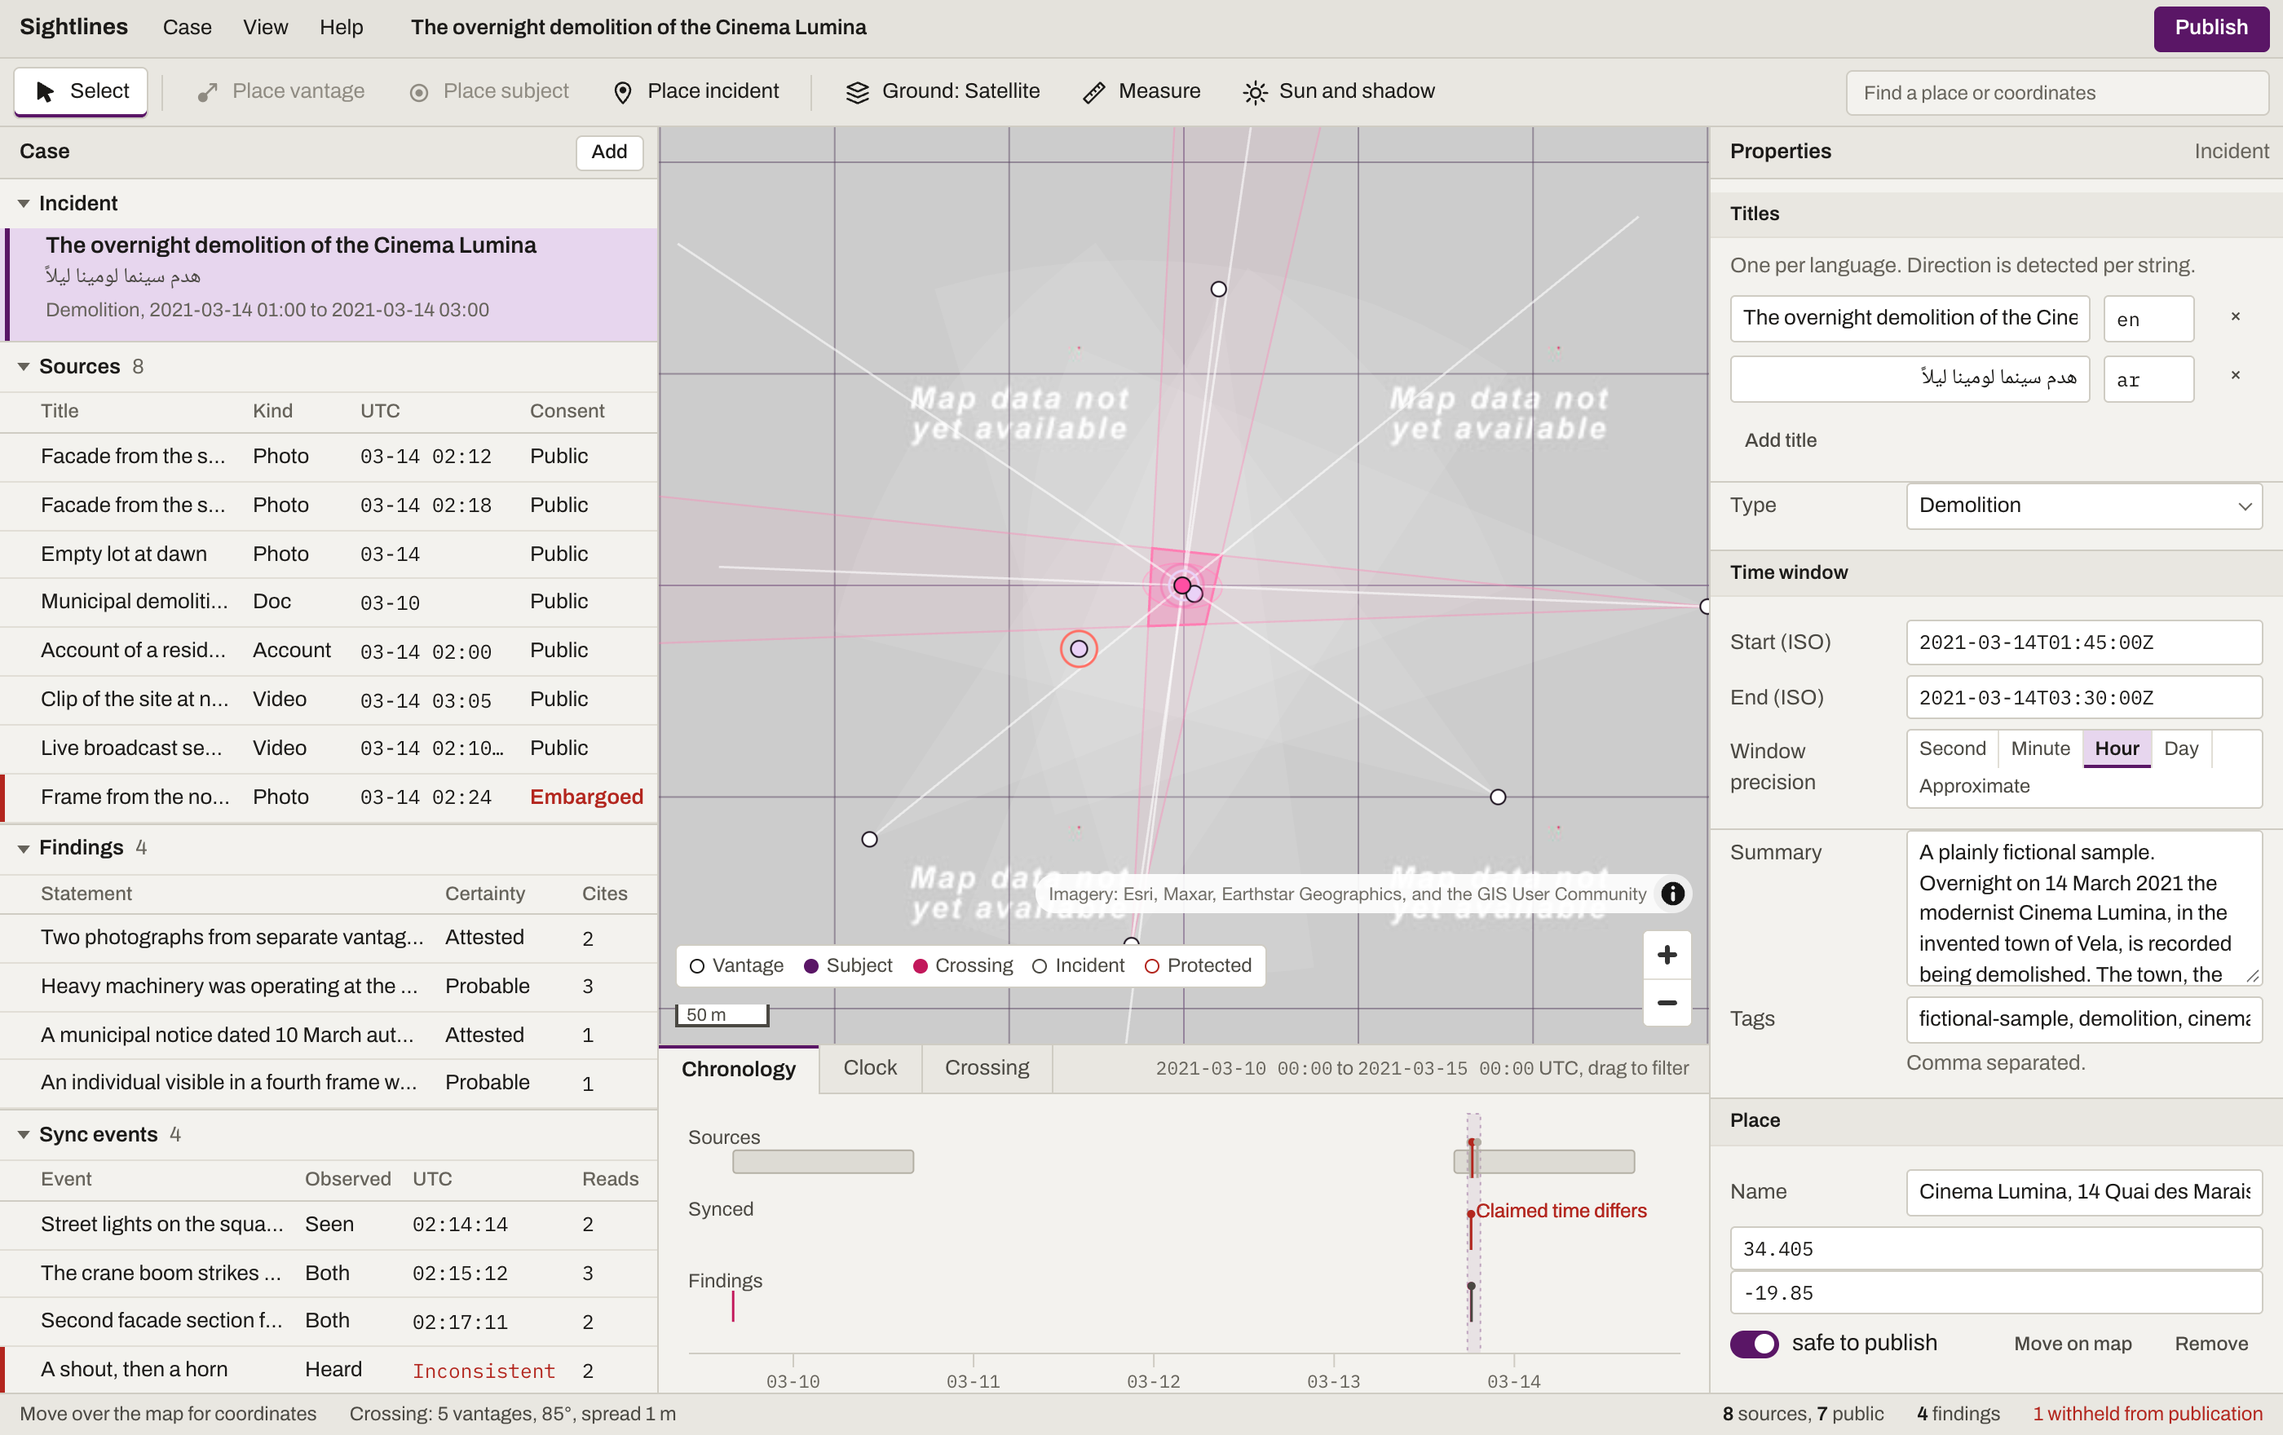
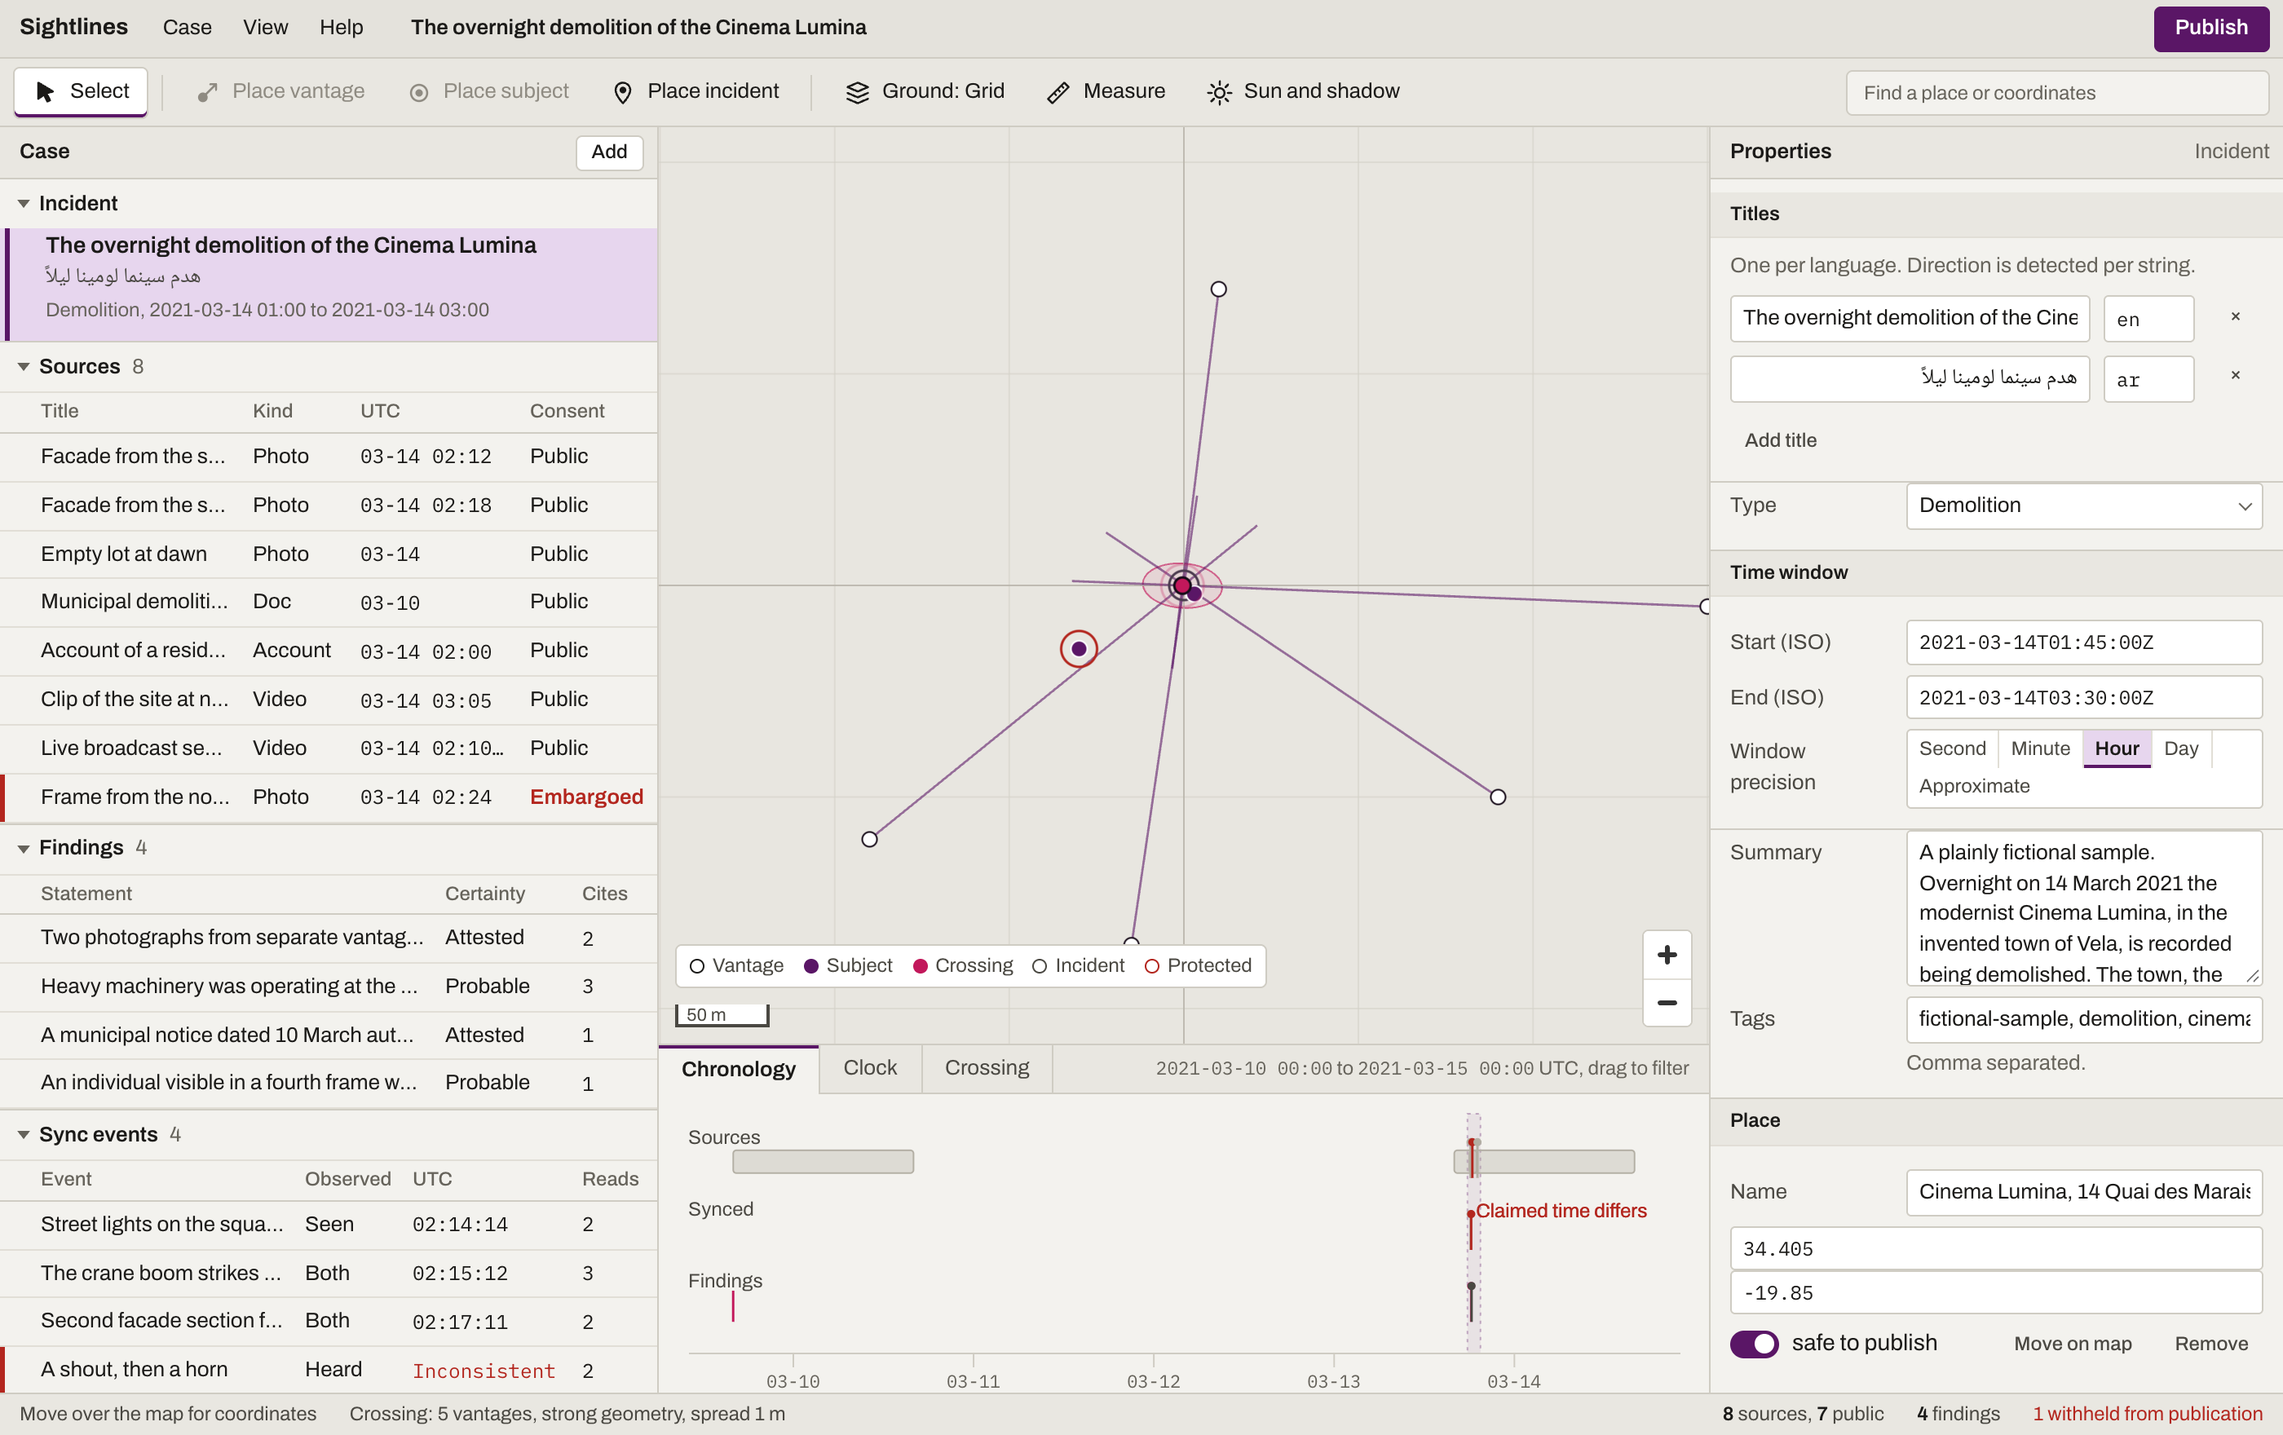
Sightlines 1.5.1: a crossing that reads as evidence
The fix is the centre of the uncertainty estimate; rays stop just past it;
pairwise crossings show the spread; view cones and origin zones appear only
for what is selected; geometry is reported in words. The sample carries
realistic bearing error and opens on the measured grid.

Changed region(s): [[0.2796, 0.0625, 0.7457, 0.75], [0.2486, 0.9688, 0.3418, 1.0]]

diff --git a/src/map/layers.ts b/src/map/layers.ts
@@ -8,6 +8,7 @@ import type { Layer } from '@deck.gl/core'
 import { LineLayer, PathLayer, PolygonLayer, ScatterplotLayer } from '@deck.gl/layers'
 import {
   destinationPoint,
+  distanceM,
   fovConeRing,
   type Project,
   type ResectionSet,
@@ -28,6 +29,8 @@ export interface BuildLayersArgs {
   hoveredId: string | null
   resection: ResectionSet
   graticule: Graticule
+  /** The fix to mark: the centre of the uncertainty estimate, when there is one. */
+  fix?: { lat: number; lng: number } | null
   /** Whether the ground under the marks is dark (imagery) or light. */
   ground?: Ground
   /** The sync event in focus: its bearing bands and zone are emphasised. */
@@ -44,6 +47,7 @@ interface PointDatum {
 
 export function buildMapLayers(args: BuildLayersArgs): Layer[] {
   const { project, selectedSourceId, hoveredId, resection, graticule } = args
+  const fix = args.fix ?? resection.best?.point ?? null
   const C = mapPalette(args.ground ?? 'dark')
   const isEmph = (id: string) => id === selectedSourceId || id === hoveredId
 
@@ -61,7 +65,11 @@ export function buildMapLayers(args: BuildLayersArgs): Layer[] {
     if (s.vantage) {
       const v = s.vantage
       const origin = { lat: v.lat, lng: v.lng }
-      const end = destinationPoint(origin, v.bearingDeg, RAY_LEN_M)
+      // A ray stops a little past the fix, so the rays are seen to converge on
+      // it rather than radiate from it.
+      const reach = fix ? distanceM(origin, fix) : null
+      const len = reach !== null && reach > 5 ? Math.min(RAY_LEN_M, reach * 1.12 + 25) : RAY_LEN_M
+      const end = destinationPoint(origin, v.bearingDeg, len)
       const emph = isEmph(s.id)
       rays.push({
         source: [v.lng, v.lat],
@@ -73,7 +81,9 @@ export function buildMapLayers(args: BuildLayersArgs): Layer[] {
         { lat: v.lat, lng: v.lng, bearingDeg: v.bearingDeg, fovDeg: v.fovDeg },
         CONE_LEN_M,
       )
-      if (ring) cones.push({ polygon: ring, color: emph ? C.coneSel : C.cone })
+      // The field of view is drawn only for the source in focus; five cones at
+      // once hide the sightlines they are meant to explain.
+      if (ring && emph) cones.push({ polygon: ring, color: C.coneSel })
       vantagePts.push({
         position: [v.lng, v.lat],
         sourceId: s.id,
@@ -139,7 +149,9 @@ export function buildMapLayers(args: BuildLayersArgs): Layer[] {
   // Bearing bands from sync readings, and the zone of possible origin where
   // they meet. The bands are faint; the zone, the bounded region the origin
   // must lie in, is outlined.
-  const wedges = eventWedges(project)
+  // Only the sync event in focus: its bands and zone are a separate
+  // construct from the crossing and must not sit on it unasked.
+  const wedges = eventWedges(project).filter((w) => w.eventId === args.selectedSyncEventId)
   if (wedges.length) {
     layers.push(
       new PolygonLayer({
@@ -157,7 +169,7 @@ export function buildMapLayers(args: BuildLayersArgs): Layer[] {
       }),
     )
   }
-  const zones = originZones(project).filter((z) => !z.empty && z.wedges > 1)
+  const zones = originZones(project).filter((z) => !z.empty && z.wedges > 1 && z.eventId === args.selectedSyncEventId)
   if (zones.length) {
     layers.push(
       new PolygonLayer({
@@ -298,17 +310,21 @@ export function buildMapLayers(args: BuildLayersArgs): Layer[] {
         id: 'crossings',
         data: resection.points.map((p) => ({ position: [p.lng, p.lat] })),
         getPosition: (d: { position: [number, number] }) => d.position,
-        getRadius: 4,
+        getRadius: 3,
         radiusUnits: 'pixels',
         filled: true,
         getFillColor: C.crossRing,
+        stroked: true,
+        getLineColor: C.cross,
+        getLineWidth: 1,
+        lineWidthUnits: 'pixels',
         parameters: { depthTest: false },
         pickable: false,
       }),
     )
   }
-  if (resection.best?.point) {
-    const bp = resection.best.point
+  if (fix) {
+    const bp = fix
     layers.push(
       new ScatterplotLayer({
         id: 'crossing-best-ring',
@@ -333,8 +349,8 @@ export function buildMapLayers(args: BuildLayersArgs): Layer[] {
         filled: true,
         getFillColor: C.cross,
         stroked: true,
-        getLineColor: [10, 12, 16, 255],
-        getLineWidth: 1,
+        getLineColor: C.vantageLine,
+        getLineWidth: 1.5,
         lineWidthUnits: 'pixels',
         parameters: { depthTest: false },
         pickable: false,

diff --git a/src/map/CrossingCard.tsx b/src/map/CrossingCard.tsx
@@ -26,6 +26,12 @@ export function useCrossing(): { resection: ResectionSet; ellipse: UncertaintyEl
   return { resection, ellipse }
 }
 
+/** How squarely the rays cross, in words rather than a percentage. */
+export function geometryWord(angleDeg: number, weak: boolean): string {
+  if (weak || angleDeg < 25) return 'Weak'
+  return angleDeg >= 60 ? 'Strong' : 'Moderate'
+}
+
 /** Round an adopted crossing to ~0.1 m so it does not carry float noise. */
 const round6 = (n: number) => Math.round(n * 1e6) / 1e6
 
@@ -47,7 +53,9 @@ export function CrossingCard() {
   if (vantageCount < 2) return null
 
   const best = resection.best
-  const point = best?.point
+  // The fix is the centre of the uncertainty estimate, which weighs every ray;
+  // without one, the best-crossing pair stands in.
+  const point = ellipse ? { lng: ellipse.center[0], lat: ellipse.center[1] } : best?.point
 
   const adoptAsPlace = () => {
     if (!point) return
@@ -87,15 +95,20 @@ export function CrossingCard() {
           <dl className="kv">
             <dt>Fix</dt>
             <dd className="mono">{formatLatLng(point.lat, point.lng)}</dd>
-            <dt>Angle</dt>
+            <dt>Geometry</dt>
             <dd>
-              <span className="mono">{best.crossingAngleDeg.toFixed(0)}&deg;</span>{' '}
-              <span className="faint">({Math.round(best.quality * 100)}% strength)</span>
+              {geometryWord(best.crossingAngleDeg, best.weak)}{' '}
+              <span className="faint">
+                (best pair crosses at <span className="mono">{best.crossingAngleDeg.toFixed(0)}&deg;</span>)
+              </span>
             </dd>
             {resection.points.length > 1 && (
               <>
                 <dt>Spread</dt>
-                <dd className="mono">{resection.spreadM.toFixed(0)} m</dd>
+                <dd>
+                  <span className="mono">{resection.spreadM.toFixed(0)} m</span>{' '}
+                  <span className="faint">across {resection.points.length} pairwise crossings</span>
+                </dd>
               </>
             )}
             {ellipse && (

diff --git a/src/sample/sampleProject.ts b/src/sample/sampleProject.ts
@@ -75,7 +75,7 @@ export async function buildSampleProject(): Promise<Project> {
         lat: 34.4038,
         lng: -19.8518,
         safeToPublish: true,
-        bearingDeg: 51,
+        bearingDeg: 52.1,
         fovDeg: 35,
         confidence: 'attested',
       },
@@ -95,7 +95,7 @@ export async function buildSampleProject(): Promise<Project> {
         lat: 34.404,
         lng: -19.8482,
         safeToPublish: true,
-        bearingDeg: 304,
+        bearingDeg: 302.8,
         fovDeg: 40,
         confidence: 'attested',
       },
@@ -154,7 +154,7 @@ export async function buildSampleProject(): Promise<Project> {
         lat: 34.4033,
         lng: -19.8503,
         safeToPublish: true,
-        bearingDeg: 8.3,
+        bearingDeg: 9.9,
         fovDeg: 50,
         confidence: 'probable',
       },
@@ -191,7 +191,7 @@ export async function buildSampleProject(): Promise<Project> {
         lat: 34.4049,
         lng: -19.847,
         safeToPublish: true,
-        bearingDeg: 272.3,
+        bearingDeg: 271.0,
         fovDeg: 40,
         confidence: 'attested',
       },
@@ -211,7 +211,7 @@ export async function buildSampleProject(): Promise<Project> {
         lat: 34.4064,
         lng: -19.8498,
         safeToPublish: true,
-        bearingDeg: 187,
+        bearingDeg: 185.6,
         fovDeg: 30,
         confidence: 'probable',
       },

diff --git a/src/map/MapView.tsx b/src/map/MapView.tsx
@@ -48,10 +48,17 @@ import {
 const BASEMAP_KEY = 'sightlines.basemap'
 const LABELS_KEY = 'sightlines.labels'
 
-/** Persisted default. 'file' is a per-session choice and is never persisted. */
+/**
+ * Persisted default. 'file' is a per-session choice and is never persisted.
+ * The fictional sample sits at invented coordinates with no imagery under
+ * them, so with no stored choice it opens on the measured grid instead of on
+ * blank tiles.
+ */
 function loadBasemapPref(): BasemapSource {
   const v = typeof localStorage !== 'undefined' ? localStorage.getItem(BASEMAP_KEY) : null
-  return v === 'streets' || v === 'topo' || v === 'graticule' ? v : 'satellite'
+  if (v === 'streets' || v === 'topo' || v === 'graticule' || v === 'satellite') return v
+  const sample = useStore.getState().project.incident.tags?.includes('fictional-sample')
+  return sample ? 'graticule' : 'satellite'
 }
 
 function loadLabelsPref(): boolean {
@@ -181,6 +188,7 @@ export function MapView() {
       selectedSyncEventId: d.selectedSyncEventId,
       hoveredId: d.hoveredId,
       resection: d.resection,
+      fix: d.ellipse ? { lng: d.ellipse.center[0], lat: d.ellipse.center[1] } : null,
       ground: d.ground,
       graticule: graticuleLines(bounds),
       onPickSource: (id) => useStore.getState().select(id),

diff --git a/src/map/palette.ts b/src/map/palette.ts
@@ -40,8 +40,8 @@ export interface MapPalette {
 }
 
 const DARK: MapPalette = {
-  minor: [86, 64, 94, 120],
-  major: [122, 96, 132, 170],
+  minor: [70, 68, 63, 140],
+  major: [100, 97, 90, 190],
   subject: [234, 210, 247, 255],
   subjectLine: [22, 11, 24, 255],
   vantage: [255, 255, 255, 255],
@@ -70,8 +70,8 @@ const DARK: MapPalette = {
 }
 
 const LIGHT: MapPalette = {
-  minor: [214, 191, 226, 150],
-  major: [185, 150, 204, 210],
+  minor: [214, 211, 203, 170],
+  major: [184, 180, 170, 220],
   subject: [90, 22, 102, 255],
   subjectLine: [255, 255, 255, 255],
   vantage: [255, 255, 255, 255],
@@ -112,4 +112,4 @@ export function groundFor(basemap: string, theme: 'light' | 'dark'): Ground {
 }
 
 /** The grid ground's background, per theme. */
-export const GRID_BG = { light: '#f3ebf6', dark: '#2a1c2f' } as const
+export const GRID_BG = { light: '#e8e6e0', dark: '#2b2a27' } as const

diff --git a/src/panels/StatusBar.tsx b/src/panels/StatusBar.tsx
@@ -1,7 +1,7 @@
 import { formatLatLng } from '../core'
 import { useStore } from '../state/store'
 import { useCursorElevation } from '../state/useCursorElevation'
-import { useCrossing } from '../map/CrossingCard'
+import { geometryWord, useCrossing } from '../map/CrossingCard'
 import { Count } from '../components/ui'
 
 /**
@@ -30,7 +30,7 @@ export function StatusBar() {
       {vantages >= 2 && (
         <span>
           {best
-            ? `Crossing: ${vantages} vantages, ${Math.round(best.crossingAngleDeg)}°${best.weak ? ', weak geometry' : ''}${
+            ? `Crossing: ${vantages} vantages, ${geometryWord(best.crossingAngleDeg, best.weak).toLowerCase()} geometry${
                 resection.points.length > 1 ? `, spread ${resection.spreadM.toFixed(0)} m` : ''
               }`
             : 'Crossing: rays do not meet ahead of the cameras'}

diff --git a/src/state/theme.ts b/src/state/theme.ts
@@ -1,5 +1,5 @@
 /**
- * Appearance: light (Colour field), dark (Night field), or the system setting.
+ * Appearance: light, dark, or the system setting.
  * The choice is a per-viewer convenience kept in this browser's storage; it is
  * never part of the project. An explicit choice sets data-theme on the root;
  * System removes it and lets the media query decide.

diff --git a/index.html b/index.html
@@ -3,7 +3,7 @@
   <head>
     <meta charset="UTF-8" />
     <meta name="viewport" content="width=device-width, initial-scale=1.0" />
-    <meta name="color-scheme" content="dark" />
+    <meta name="color-scheme" content="light dark" />
     <title>Sightlines</title>
     <meta
       name="description"

diff --git a/src/core/appInfo.ts b/src/core/appInfo.ts
@@ -1,7 +1,7 @@
 /** App identity and the standing disclaimers, in one place (shared core). */
 
 export const APP_NAME = 'Sightlines'
-export const APP_VERSION = '1.5.0'
+export const APP_VERSION = '1.5.1'
 export const SUITE_NAME = 'Parallax'
 
 export const TAGLINE =

diff --git a/src/map/basemap.ts b/src/map/basemap.ts
@@ -94,7 +94,7 @@ const LABELS_TILES: RasterDef = {
   maxzoom: 19,
 }
 
-export const BG_COLOR = '#f3ebf6'
+export const BG_COLOR = '#e8e6e0'
 
 /** A dated release of the Esri Wayback World Imagery archive. */
 export interface WaybackRelease {

diff --git a/CHANGELOG.md b/CHANGELOG.md
@@ -3,6 +3,25 @@
 All notable changes to this project are documented here. The format follows
 Keep a Changelog, and the project follows Semantic Versioning.
 
+## [1.5.1] - 2026-11-05
+
+### Changed
+
+- The crossing now reads as evidence rather than as a starburst. The fix is
+  the centre of the uncertainty estimate, which weighs every ray, not the
+  single best-crossing pair. Rays stop a little past the fix, so they are seen
+  to converge on it; the pairwise crossings are drawn as a small cluster around
+  it; a camera's field of view is drawn only for the source in focus; and a
+  sync event's bearing bands and zone of possible origin are drawn only when
+  that event is selected.
+- Geometry is reported in words (strong, moderate, weak) with the best pair's
+  crossing angle, and the spread names how many pairwise crossings it spans.
+- The sample's bearings now carry realistic reading error, so its spread and
+  its 95% region tell one consistent story. The sample opens on the measured
+  grid, since its invented coordinates have no imagery under them.
+- The grid ground uses the Workbench greys, and the page declares both light
+  and dark colour schemes.
+
 ## [1.5.0] - 2026-11-05
 
 ### Changed

diff --git a/README.md b/README.md
@@ -74,7 +74,7 @@ artifact that hosts free.
 - A custom visx timeline, brushed and linked to the map
 - Dexie / IndexedDB for the project, with media held as Blobs
 - WebCrypto `crypto.subtle.digest` for sha-256 fixity
-- Self-hosted IBM Plex Sans, IBM Plex Mono, and Noto Naskh Arabic (no font CDN)
+- Self-hosted Archivo, IBM Plex Mono, and Noto Naskh Arabic (no font CDN)
 
 ## Safety properties
 
